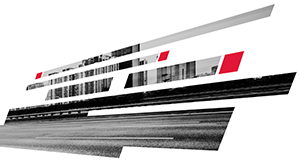
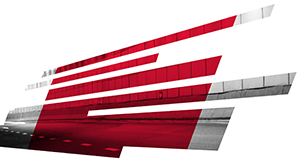
Do VAN - 300x600

diff --git a/2016-05-11/source/VAN/300x600.css b/2016-05-11/source/VAN/300x600.css
@@ -696,7 +696,7 @@
   -o-animation: fadeOut 10ms ease-in-out 4s forwards;
   animation: fadeOut 10ms ease-in-out 4s forwards; 
 }
-.front-wheel-container, .front-wheel-2-container {
+.front-wheel-container, .front-wheel-2-container, .front-wheel-3-container {
   width: 34px;
   height: 53px;
   top: 50px;
@@ -707,7 +707,7 @@
   -ms-transform: scaleX(0.6415);
   transform: scaleX(0.6415);
 }
-.front-wheel, .front-wheel-2 {
+.front-wheel, .front-wheel-2, .front-wheel-3 {
   width: 53px;
   height: 53px;
   background: url('./images/300x250_wheel_front.png') no-repeat center center;
@@ -715,7 +715,7 @@
   top: 0px;
   left: 0px;
 }
-.back-wheel-container, .back-wheel-2-container {
+.back-wheel-container, .back-wheel-2-container, .back-wheel-3-container {
   width: 19px;
   height: 40px;
   top: 45px;
@@ -726,7 +726,7 @@
   -ms-transform: scaleX(0.475);
   transform: scaleX(0.475);
 }
-.back-wheel, .back-wheel-2 {
+.back-wheel, .back-wheel-2, .back-wheel-3 {
   width: 40px;
   height: 40px;
   background: url('./images/300x250_wheel_back.png') no-repeat center center;
@@ -742,6 +742,13 @@
   animation: wheelRotationAnimation 1.5s ease-in-out 2.5s forwards;
 }
 
+.car-2-outside {
+  -webkit-animation: fadeOut 0.5s ease-in-out 10s forwards;
+  -moz-animation: fadeOut 0.5s ease-in-out 10s forwards;
+  -ms-animation: fadeOut 0.5s ease-in-out 10s forwards;
+  -o-animation: fadeOut 0.5s ease-in-out 10s forwards;
+  animation: fadeOut 0.5s ease-in-out 10s forwards;
+}
 .car-2-container {
   -webkit-transform: translate(300px,50px);
   -moz-transform: translate(300px,50px);
@@ -797,6 +804,64 @@
   animation: wheelRotationAnimation 1.5s ease-in-out 6.5s forwards;
 }
 
+
+
+.car-3-container {
+  -webkit-transform: translate(300px,50px);
+  -moz-transform: translate(300px,50px);
+  -ms-transform: translate(300px,50px);
+  -o-transform: translate(300px,50px);
+  transform: translate(300px,50px);
+
+  -webkit-animation: rollBack 10ms ease-in-out 0s forwards;
+  -moz-animation: rollBack 10ms ease-in-out 0s forwards;
+  -ms-animation: rollBack 10ms ease-in-out 0s forwards;
+  -o-animation: rollBack 10ms ease-in-out 0s forwards;
+  animation: rollBack 10ms ease-in-out 0s forwards;
+}
+.car-3 {
+  width: 256px;
+  height: 109px;
+  background: url('./images/300x250_car_3.png') no-repeat center center;
+  top: 124px;
+  left: 4px;
+
+  -webkit-transform: translate(-300px,-50px);
+  -moz-transform: translate(-300px,-50px);
+  -ms-transform: translate(-300px,-50px);
+  -o-transform: translate(-300px,-50px);
+  transform: translate(-300px,-50px);
+
+  -webkit-animation: carRunAnimation 1.5s ease-in-out 10.5s forwards;
+  -moz-animation: carRunAnimation 1.5s ease-in-out 10.5s forwards;
+  -ms-animation: carRunAnimation 1.5s ease-in-out 10.5s forwards;
+  -o-animation: carRunAnimation 1.5s ease-in-out 10.5s forwards;
+  animation: carRunAnimation 1.5s ease-in-out 10.5s forwards;
+}
+.wheel-container-3 {
+  -webkit-animation: fadeOut 10ms ease-in-out 12s forwards;
+  -moz-animation: fadeOut 10ms ease-in-out 12s forwards;
+  -ms-animation: fadeOut 10ms ease-in-out 12s forwards;
+  -o-animation: fadeOut 10ms ease-in-out 12s forwards;
+  animation: fadeOut 10ms ease-in-out 12s forwards;
+}
+.front-wheel-3-container {
+  top: 46px;
+  left: 90px;
+}
+.back-wheel-3-container {
+  top: 43px;
+  left: 9px;
+}
+.back-wheel-3, .front-wheel-3 {
+  -webkit-animation: wheelRotationAnimation 1.5s ease-in-out 10.5s forwards;
+  -moz-animation: wheelRotationAnimation 1.5s ease-in-out 10.5s forwards;
+  -ms-animation: wheelRotationAnimation 1.5s ease-in-out 10.5s forwards;
+  -o-animation: wheelRotationAnimation 1.5s ease-in-out 10.5s forwards;
+  animation: wheelRotationAnimation 1.5s ease-in-out 10.5s forwards;
+}
+
+
 .text-container {
   -webkit-transform: translate(300px,0);
   -moz-transform: translate(300px,0);
@@ -823,11 +888,11 @@
   -o-transform: translate(-300px,0);
   transform: translate(-300px,0);
 
-  -webkit-animation: fadeIn 1s ease-in-out 8s forwards;
-  -moz-animation: fadeIn 1s ease-in-out 8s forwards;
-  -ms-animation: fadeIn 1s ease-in-out 8s forwards;
-  -o-animation: fadeIn 1s ease-in-out 8s forwards;
-  animation: fadeIn 1s ease-in-out 8s forwards;
+  -webkit-animation: fadeIn 1s ease-in-out 12s forwards;
+  -moz-animation: fadeIn 1s ease-in-out 12s forwards;
+  -ms-animation: fadeIn 1s ease-in-out 12s forwards;
+  -o-animation: fadeIn 1s ease-in-out 12s forwards;
+  animation: fadeIn 1s ease-in-out 12s forwards;
 }
 .logo-container {
   -webkit-transform: translate(300px,0);
@@ -855,11 +920,11 @@
   -o-transform: translate(-300px,0);
   transform: translate(-300px,0);
 
-  -webkit-animation: fadeIn 1s ease-in-out 9s forwards;
-  -moz-animation: fadeIn 1s ease-in-out 9s forwards;
-  -ms-animation: fadeIn 1s ease-in-out 9s forwards;
-  -o-animation: fadeIn 1s ease-in-out 9s forwards;
-  animation: fadeIn 1s ease-in-out 9s forwards;
+  -webkit-animation: fadeIn 1s ease-in-out 13s forwards;
+  -moz-animation: fadeIn 1s ease-in-out 13s forwards;
+  -ms-animation: fadeIn 1s ease-in-out 13s forwards;
+  -o-animation: fadeIn 1s ease-in-out 13s forwards;
+  animation: fadeIn 1s ease-in-out 13s forwards;
 }
 .cta-container {
   -webkit-transform: translate(300px,0);
@@ -887,11 +952,11 @@
   -o-transform: translate(-300px,0);
   transform: translate(-300px,0);
 
-  -webkit-animation: slideRight 0.5s ease-in-out 10s forwards;
-  -moz-animation: slideRight 0.5s ease-in-out 10s forwards;
-  -ms-animation: slideRight 0.5s ease-in-out 10s forwards;
-  -o-animation: slideRight 0.5s ease-in-out 10s forwards;
-  animation: slideRight 0.5s ease-in-out 10s forwards;
+  -webkit-animation: slideRight 0.5s ease-in-out 14s forwards;
+  -moz-animation: slideRight 0.5s ease-in-out 14s forwards;
+  -ms-animation: slideRight 0.5s ease-in-out 14s forwards;
+  -o-animation: slideRight 0.5s ease-in-out 14s forwards;
+  animation: slideRight 0.5s ease-in-out 14s forwards;
 }
 
 .border {

diff --git a/2016-05-11/source/VAN/300x600.html b/2016-05-11/source/VAN/300x600.html
@@ -33,15 +33,35 @@
 							</div>
 						</div>
 					</div>
-					<div class="car-2-container container">
-						<div class="car-2 absolute">
-							<div class="wheel-container container">
-								<div class="wheel-container-2 container">
-									<div class="front-wheel-2-container absolute">
-										<div class="front-wheel-2 absolute">&nbsp;</div>
+					
+					<div class="car-2-outside container">
+						<div class="car-2-wrapper container">
+							<div class="car-2-container container">
+								<div class="car-2 absolute">
+									<div class="wheel-container container">
+										<div class="wheel-container-2 container">
+											<div class="front-wheel-2-container absolute">
+												<div class="front-wheel-2 absolute">&nbsp;</div>
+											</div>
+											<div class="back-wheel-2-container absolute">
+												<div class="back-wheel-2 absolute">&nbsp;</div>
+											</div>
+										</div>
 									</div>
-									<div class="back-wheel-2-container absolute">
-										<div class="back-wheel-2 absolute">&nbsp;</div>
+								</div>
+							</div>
+						</div>
+					</div>
+					
+					<div class="car-3-container container">
+						<div class="car-3 absolute">
+							<div class="wheel-container container">
+								<div class="wheel-container-3 container">
+									<div class="front-wheel-3-container absolute">
+										<div class="front-wheel-3 absolute">&nbsp;</div>
+									</div>
+									<div class="back-wheel-3-container absolute">
+										<div class="back-wheel-3 absolute">&nbsp;</div>
 									</div>
 								</div>
 							</div>
